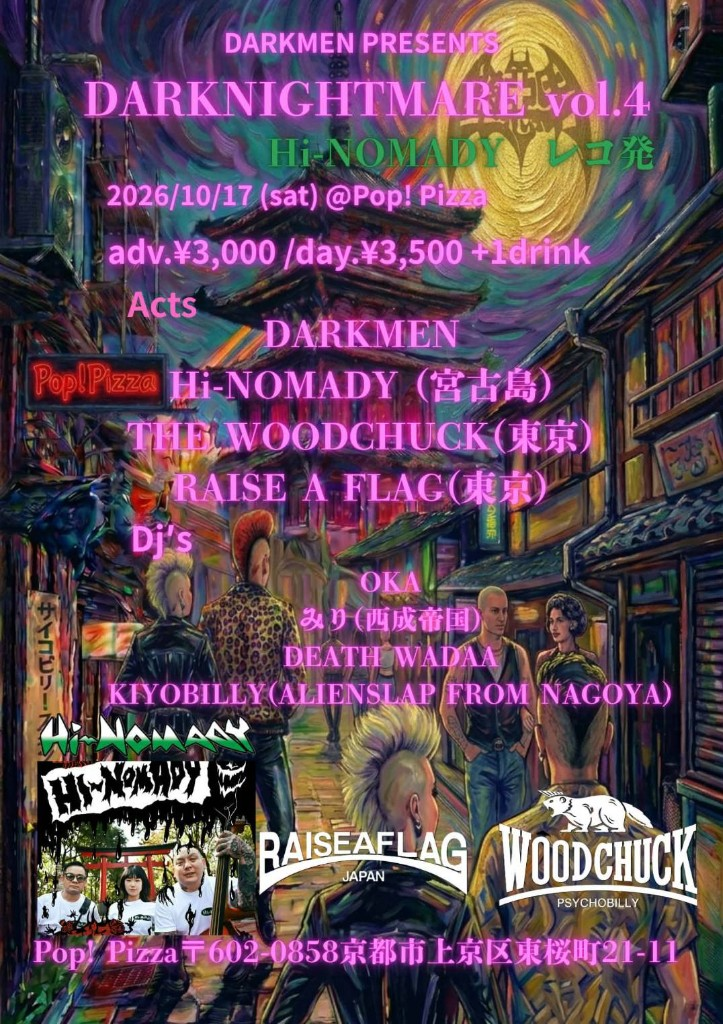
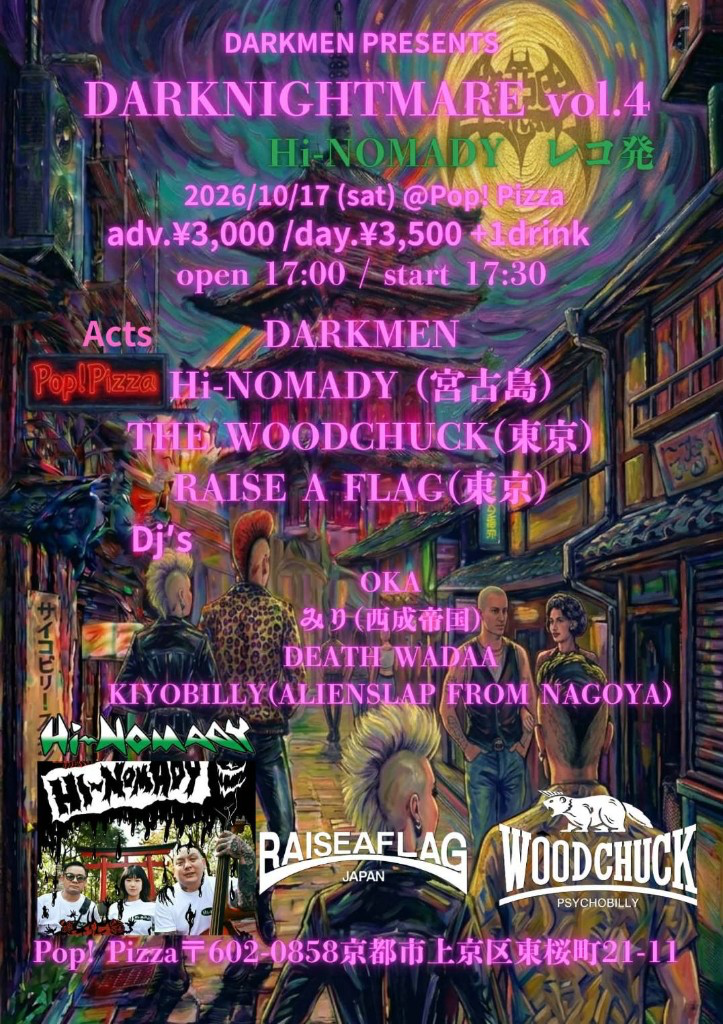
update live

Changed region(s): [[0.1217, 0.1562, 0.8216, 0.3438]]

diff --git a/app/api/live-schedules/data.ts b/app/api/live-schedules/data.ts
@@ -1136,6 +1136,29 @@ DOOR:	未定
     image: '/images/2026-10-04.png',
   },
   {
+    title: "REMY'S FEST 2026 — 12 Year Anniversary @沖縄",
+    description: `
+      2026.10.10 sat（Day 1）
+      ※フェス開催: 2026.10.10 sat〜10.11 sun
+      Remy's
+      18:30–24:00
+      ¥2,000（学生入場無料）
+
+      Day 1 LINEUP（Hi-NOMADY出演日）
+      RISKY（HEAVY ALT）
+      ILLUMINATI（METAL/HARDCORE）
+      AS ALLIANCE（METALCORE）
+      ZERO SEN（TRIBAL METAL）
+      AJNA（GOTHIC METAL）
+      RUDY（PUNK ROCK）
+      HI NOMADY（PSYCHOBILLY）
+      KYNKYY（EMO/NU METAL）
+      FAT KAZYA BAND（COMIC ROCK）
+    `,
+    date: '2026-10-10',
+    image: '/images/2026-10-10.png',
+  },
+  {
     title: 'Zerosen Presents 空襲警報 AIR RAID WARNING @那覇',
     description: `
       2026.10.11 sun
@@ -1161,6 +1184,7 @@ DOOR:	未定
     description: `
       2026.10.17 sat
       Pop! Pizza（京都）
+      OPEN 17:00 / START 17:30
       ADV ¥3,000 + 1drink / DAY ¥3,500 + 1drink
 
       〒602-0858 京都市上京区東桜町21-11
@@ -1179,6 +1203,25 @@ DOOR:	未定
     `,
     date: '2026-10-17',
     image: '/images/2026-10-17.png',
+  },
+  {
+    title: 'Gigs ON YOUR Way Home @下北沢',
+    description: `
+      2026.10.23 fri
+      LIVE HAUS
+      DOORS 19:00
+      ¥2,300 + 1drink
+
+      Hi-NOMADY
+      PROM
+      有刺鉄戦
+      frozen
+
+      DJ
+      DJ BISCO（Episode Sounds）
+    `,
+    date: '2026-10-23',
+    image: '/images/2026-10-23.png',
   },
   {
     title: 'TOKYO RUSTIC JAMBOREE 30th ANNIVERSARY 2026 @新宿LOFT',
@@ -1240,12 +1283,36 @@ DOOR:	未定
     ],
   },
   {
+    title: 'CLUB ZOU presents ELEPHANTRICK vol.20 — Hi-NOMADY レコ発 @清水',
+    description: `
+      2026.11.14 sat
+      CLUB ZOU -SHIMIZU-
+      START 18:30
+      ¥3,000（1drink込み）
+
+      静岡県静岡市清水区旭町3-26
+      清水駅徒歩10分 / 新清水駅徒歩3分
+
+      BAND
+      Hi-NOMADY（1st Album ヤナムヌ レコ発）
+      DILDOS
+      The flying jalapenos
+      清水デスパルス
+
+      DJ
+      ますみ（Dry Bones）
+      JUGON
+    `,
+    date: '2026-11-14',
+    image: '/images/2026-11-14.png',
+  },
+  {
     title: 'SASARA MOSARA @FIREBIRD',
     description: `
       2026.11.29 sun
       FIREBIRD
       OPEN / START 16:00
-      ADV ¥3000 + DRINK / DOOR ¥3500 + DRINK
+      ADV ¥3,000 + DRINK / DOOR ¥3,500 + DRINK
 
       THE TUESDAY
       GREAT INVADERS
@@ -1253,13 +1320,32 @@ DOOR:	未定
       Hi-NOMADY
       THEジェラシーズ
       TOKI（黒糖ロッカーズ）
-      フル新中野
+      ブル新中野
 
       〒270-0034 千葉県松戸市新松戸2-118 新松戸ビル5F
       Tel 047-347-9669
+      Mail firebird@aj-group.co.jp
     `,
     date: '2026-11-29',
     image: '/images/2026-11-29.png',
+  },
+  {
+    title: 'SERIOUS PUBLISHING TOKYO PARTY @幡ヶ谷',
+    description: `
+      2026.12.9 wed
+      CLUB HEAVY SICK（Hatagaya, TOKYO）
+      OPEN / START 19:00
+      ADV ¥500 + 1drink（¥600） / DOOR ¥1,000 + 1drink（¥600）
+
+      LIVE SHOW
+      the Boing vs Hi-NOMADY
+
+      DJ
+      AKANE KONDO（THE MERCIES）
+      YÜKIÖ TCB（PSY）
+    `,
+    date: '2026-12-09',
+    image: '/images/2026-12-09.png',
   },
   {
     title: 'PSYCLONE BOOGIE',
